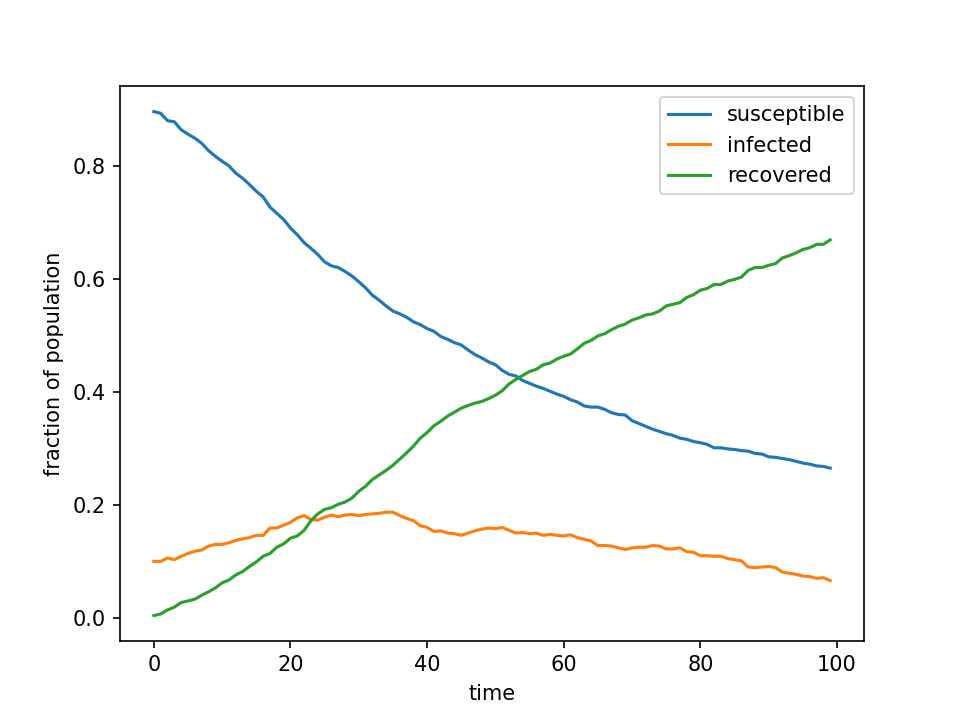
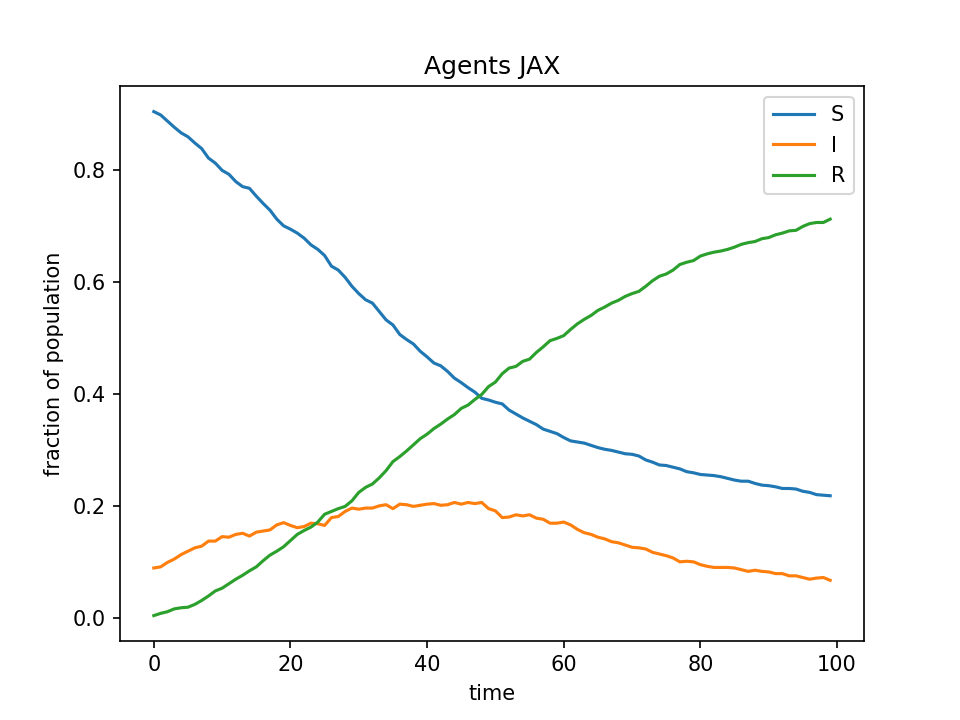
images in readme

diff --git a/sir_agents_jax.py b/sir_agents_jax.py
@@ -169,7 +169,7 @@ if __name__ == "__main__":
     parser.add_argument("--beta", type=float, default=0.1)
     parser.add_argument("--gamma", type=float, default=0.05)
     parser.add_argument("--delta_t", type=float, default=1.0)
-    parser.add_argument("--gs", type=bool, default=False)
+    parser.add_argument("--gs", type=bool, default=True)
 
     params = parser.parse_args()
     USE_GS = params.gs
@@ -193,11 +193,12 @@ if __name__ == "__main__":
 
     # plot normalized sir
     f, ax = plt.subplots()
-    ax.plot(susceptible_per_day / params.n_agents, label="susceptible")
-    ax.plot(infected_per_day / params.n_agents, label="infected")
-    ax.plot(recovered_per_day / params.n_agents, label="recovered")
+    ax.plot(susceptible_per_day / params.n_agents, label="S")
+    ax.plot(infected_per_day / params.n_agents, label="I")
+    ax.plot(recovered_per_day / params.n_agents, label="R")
     ax.legend()
     ax.set_xlabel("time")
     ax.set_ylabel("fraction of population")
+    ax.set_title("Agents JAX")
     f.savefig("sir_jax.png", dpi=150)
     #plt.show()

diff --git a/sir_agents_torch.py b/sir_agents_torch.py
@@ -160,6 +160,7 @@ if __name__ == "__main__":
     plt.ylabel("Fraction of agents")
     plt.ylim(0,1)
     plt.legend()
+    plt.title("Agents PyTorch")
     plt.savefig("sir_agents_torch.png", dpi=150)
     #plt.show()
 

diff --git a/sir_ode_torch.py b/sir_ode_torch.py
@@ -55,6 +55,7 @@ if __name__ == "__main__":
     plt.xlabel("Time")
     plt.ylabel("Fraction of agents")
     plt.legend()
+    plt.title("ODE PyTorch")
     plt.savefig("sir_ode_torch.png", dpi=150)
     #plt.show()
 

diff --git a/README.md b/README.md
@@ -1,2 +1,8 @@
 # sir
 Agent-based SIR implementations in Julia, PyTorch, and Jax.
+
+<p float="left">
+  <img src="./sir_agents_torch.png" width="300" />
+  <img src="./sir_jax.png" width="300" /> 
+  <img src="./sir_ode_torch.png" width="300" />
+</p>
